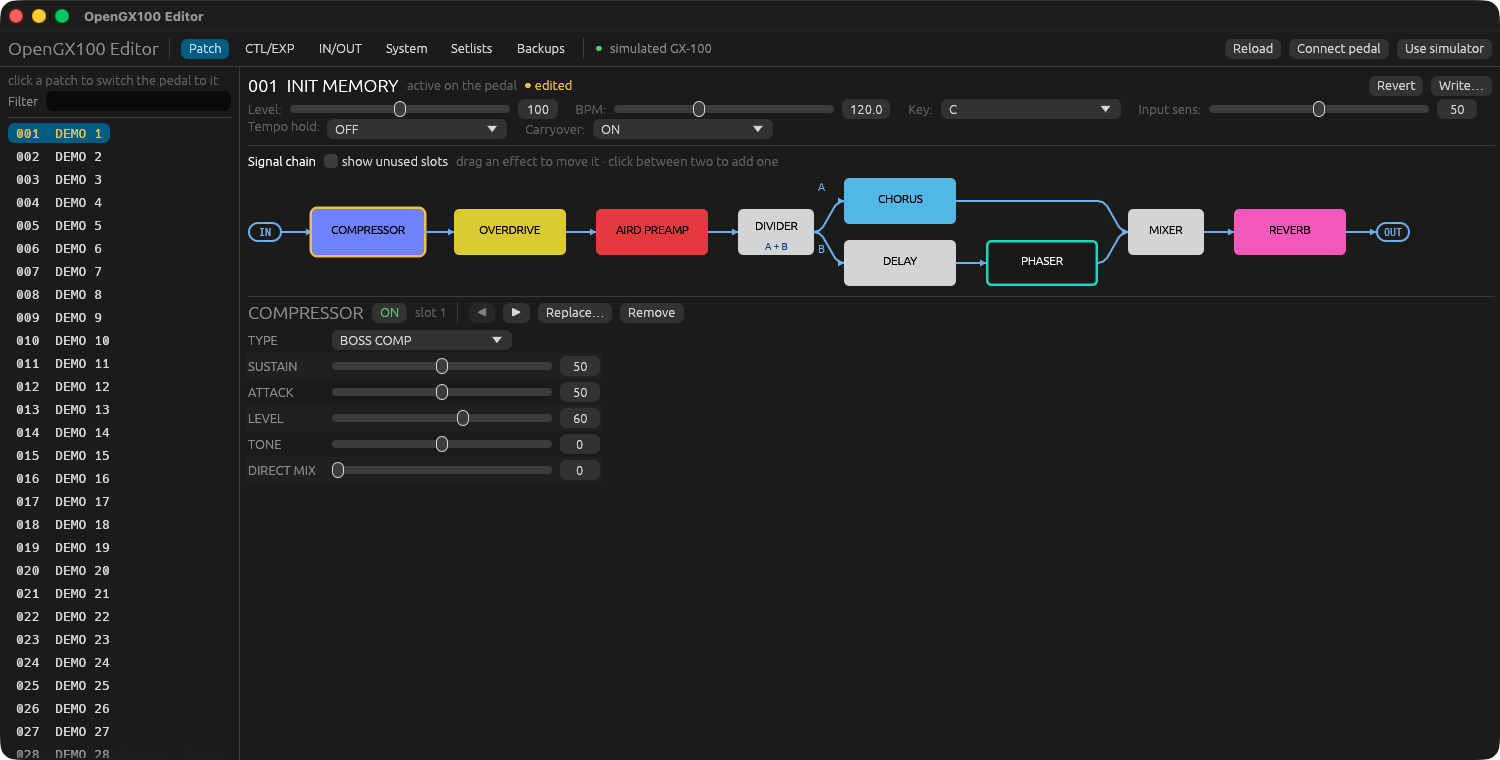
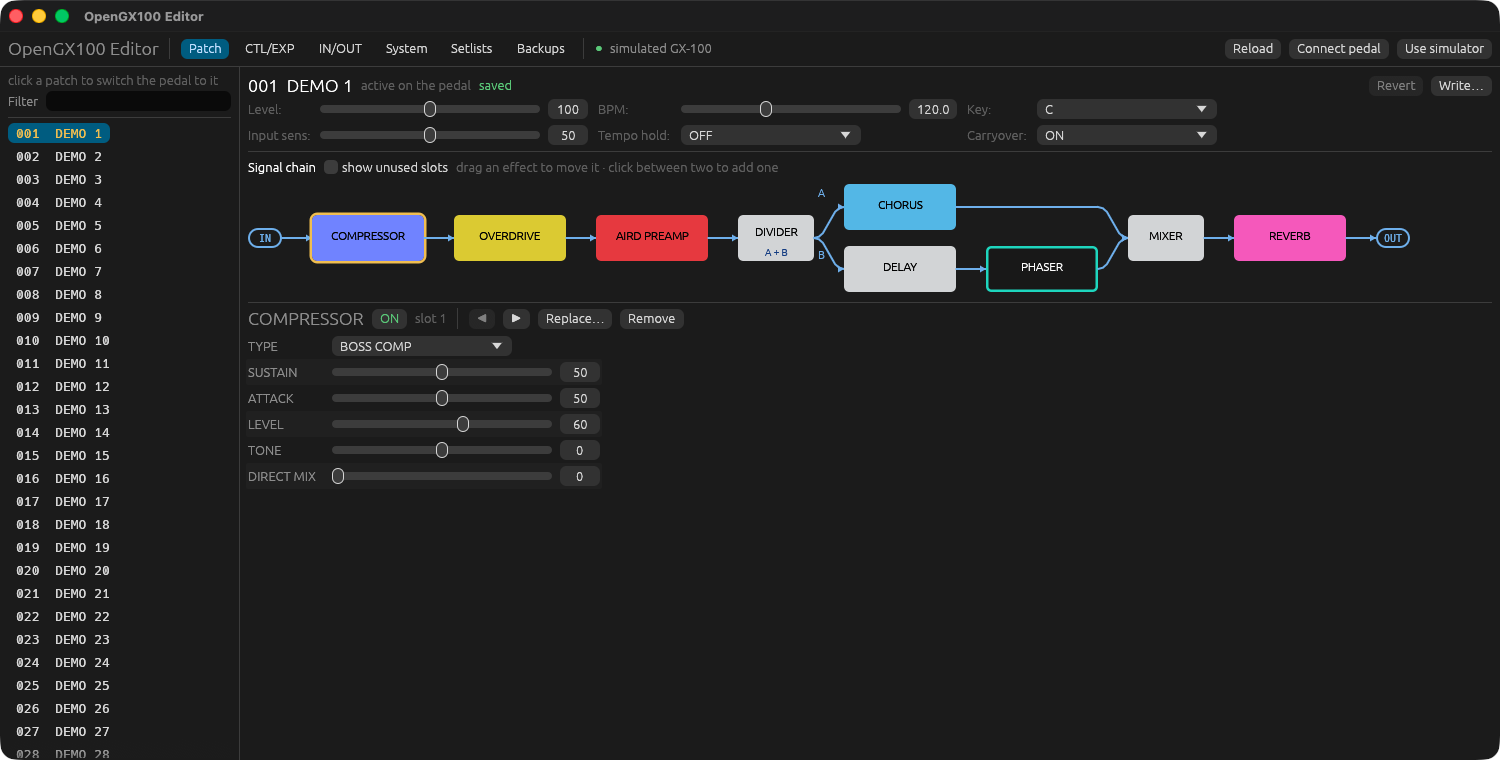
GUI: patch settings in a grid; simulator starts unedited
- The patch settings above the chain (level, BPM, key…) were laid out
  with horizontal_wrapped, which could separate a label from its control
  and let a slider run off the right edge. They're now label/control
  pairs in a grid, as many per row as the width allows.
- The simulator's live patch is now a copy of patch 1 (where the pedal
  is), so it no longer shows "● edited" from the start.
- README screenshot retaken.

diff --git a/crates/opengx100-gui/src/app/editing.rs b/crates/opengx100-gui/src/app/editing.rs
@@ -388,20 +388,26 @@ impl EditorApp {
 
     /// The live patch's settings row (level, BPM, key…), editable.
     pub(super) fn patch_settings_editor(&mut self, ui: &mut egui::Ui, settings: &[(&str, &str)]) {
-        ui.horizontal_wrapped(|ui| {
-            for (path, label) in settings {
-                let Some(p) = tables::param(path) else { continue };
-                let Some(v) = self.temp_value(path) else { continue };
+        // Label and control side by side, as many pairs per row as fit (a slider with its value box is the
+        // widest control).
+        const PAIR_W: f32 = 400.0;
+        let per_row = ((ui.available_width() / PAIR_W).floor() as usize).max(1);
+        let settings: Vec<_> = settings
+            .iter()
+            .filter_map(|&(path, label)| Some((path, label, tables::param(path)?, self.temp_value(path)?)))
+            .collect();
+        egui::Grid::new("patch-settings").num_columns(per_row * 2).spacing([10.0, 6.0]).show(ui, |ui| {
+            for (i, &(path, label, p, v)) in settings.iter().enumerate() {
                 let flash = patch::temp_offset(p.addr).is_some_and(|o| self.flashing(o, p.encoding.size()));
                 let color = if flash { AMBER } else { ui.visuals().weak_text_color() };
                 doc_label(ui, RichText::new(format!("{label}:")).color(color), tables::param_doc(path));
-                let new = match *label {
+                let new = match label {
                     "Key" => {
                         let keys: Vec<(i32, &str)> =
                             super::KEYS.iter().enumerate().map(|(i, k)| (i as i32, *k)).collect();
                         value_widget(
                             ui,
-                            ("set", *path),
+                            ("set", path),
                             v,
                             (p.min, p.max),
                             &keys,
@@ -412,7 +418,7 @@ impl EditorApp {
                     }
                     "BPM" => value_widget(
                         ui,
-                        ("set", *path),
+                        ("set", path),
                         v,
                         (p.min, p.max),
                         &[],
@@ -425,7 +431,9 @@ impl EditorApp {
                 if let Some(n) = new {
                     self.set_temp_param(p, n);
                 }
-                ui.add_space(10.0);
+                if (i + 1) % per_row == 0 {
+                    ui.end_row();
+                }
             }
         });
     }

diff --git a/crates/opengx100-gui/src/worker.rs b/crates/opengx100-gui/src/worker.rs
@@ -634,13 +634,17 @@ fn demo_sim() -> SimulatedGx100 {
     if let Some(o) = prev.and_then(|p| at(&format!("Temp_patch.efct.ChainNextItem{}", p - 1))) {
         bytes[o] = 0;
     }
-    sim.poke(temp, &bytes);
     for n in 1..=USER_PATCHES {
         let Some(addr) = patch::user_patch(n) else { continue };
         if let Some(o) = at("Temp_patch.common.Name") {
             bytes[o..o + 16].copy_from_slice(format!("DEMO {n:<11}").as_bytes());
         }
         sim.poke(addr, &bytes);
+    }
+    // The pedal is on patch 1 (`CurrentPatchNum` 0), unedited: the live patch is a copy of it.
+    if let Some(p1) = patch::user_patch(1) {
+        let stored = sim.peek(p1, patch::patch_span());
+        sim.poke(temp, &stored);
     }
     sim
 }
